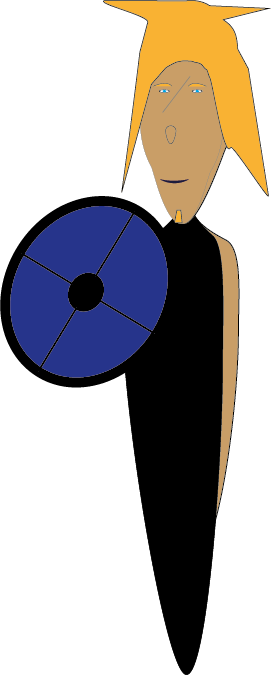
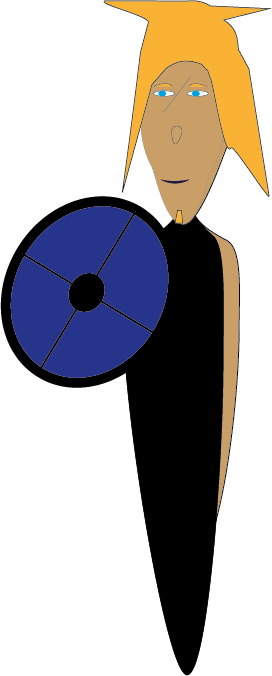
big eyes

diff --git a/js/characters.js b/js/characters.js
@@ -260,8 +260,8 @@ class Cyborg extends Gorvenal {
 
                 //REDUCE LIFE ON LIFEBAR & HEALTHCLASS
                 let healthPerso = document.getElementById("health-perso1")
-                healthPerso.value -= 1;
-                perso.health -= 1;
+                healthPerso.value -= 1.5;
+                perso.health -= 1.5;
 
                 //COUTEAU ATTACHE AU PERSO2    
                 // this.x_attack = perso.x;

diff --git a/js/main.js b/js/main.js
@@ -210,6 +210,8 @@ function update() {
         document.querySelector("#endgame span").innerText = "Fight again";
 
 
+
+
       }, 3000);
     }, 4000);
   } else {}
